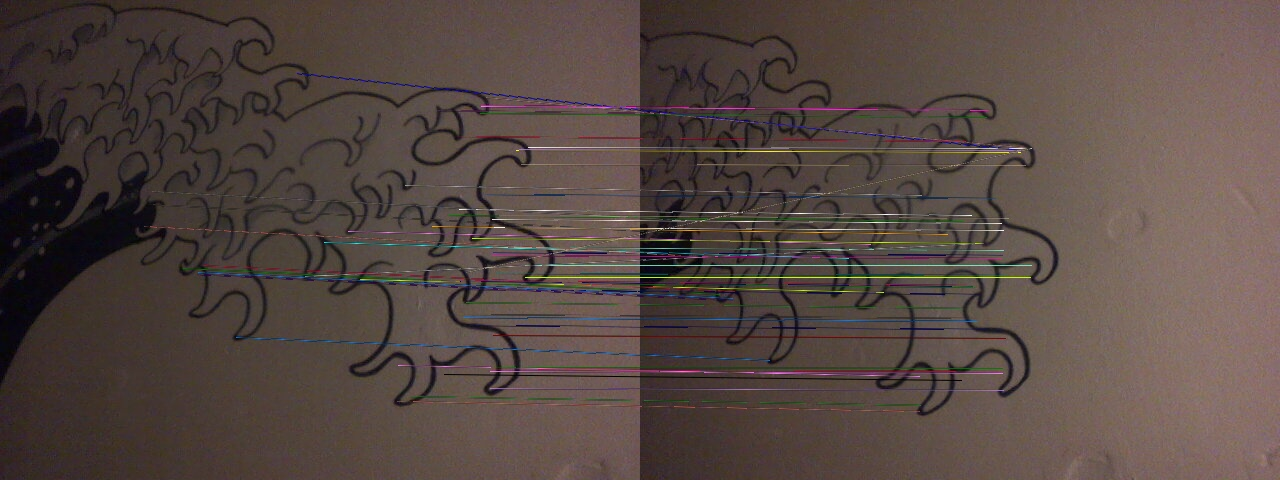
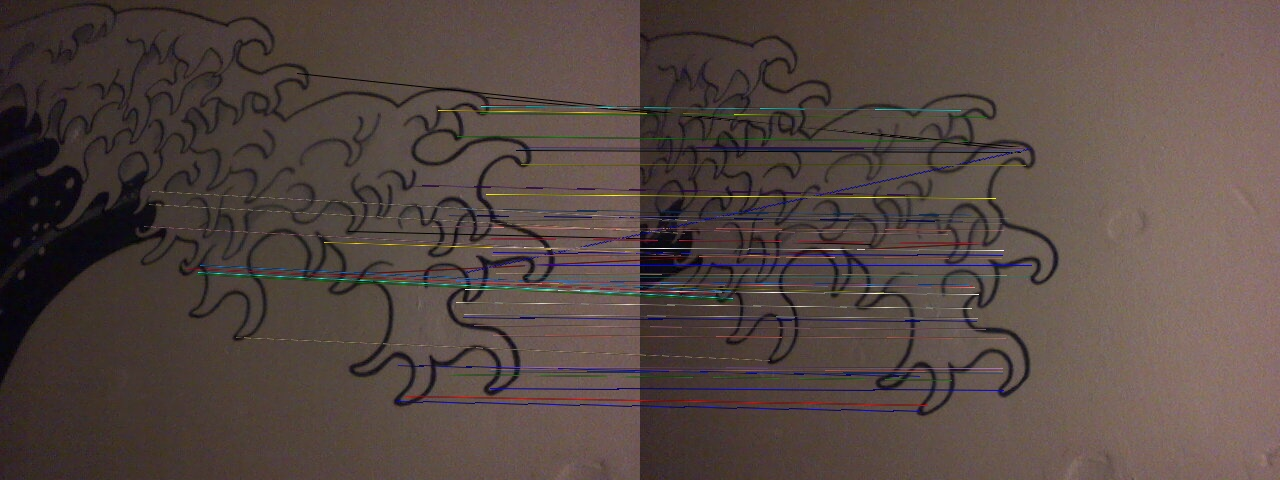
test code for image alignment

diff --git a/align_test.py b/align_test.py
@@ -1,0 +1,45 @@
+from SimpleCV import *
+import cv2
+import cv
+import numpy
+
+def stitch(img1, img2):
+    #create an empty destination image with combined size
+    h1,w1 = img1.size()
+    h2,w2 = img2.size()
+    dst_img = Image((h1+h2,w1+w2))
+    dst_array = numpy.array(dst_img.getMatrix())
+
+    ster = StereoImage(img1,img2)
+    H = ster.findHomography()[0]
+    #homo = numpy.rot90(numpy.matrix(H))
+    #transform to one image
+    img2_array = numpy.array(img2.getMatrix())
+    res_array = cv2.warpPerspective(src   = img2_array,
+                                    M     = H,
+                                    dsize = dst_img.size(),
+                                    dst   = dst_array,
+                                    flags = cv2.INTER_CUBIC,
+                                   )
+                                   
+    #res_img = Image(res_array,colorSpace = ColorSpace.RGB).toBGR()
+    res_img = Image(res_array)
+    res_img = res_img.rotate90()
+    # blit the img1 now on coordinate (0, 0).
+    res_img = res_img.blit(img1, alpha=0.4)
+    return res_img
+    
+################################################################################
+# TEST CODE
+################################################################################    
+if __name__ == "__main__":
+
+    IM1 = "test_images/a0.png"
+    IM2 = "test_images/a1.png"
+    #IM1 = "test_images/wave1.jpg"
+    #IM2 = "test_images/wave2.jpg"
+
+    img1 = Image(IM1)
+    img2 = Image(IM2)
+    res  = stitch(img1,img2)
+    res.save("stitched.png")
